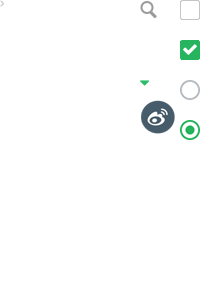
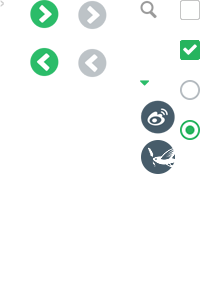
menu nav done

diff --git a/template/bui.html b/template/bui.html
@@ -103,8 +103,6 @@
 				<a href="#" class="btn btn-main act-dialog-def">default</a>
 				<a href="#" class="btn btn-main act-dialog">option</a>
 				<a href="#" class="act-dialog-focus btn btn-hot" focus-data="http://i1.chunboimg.com/group1/M00/00/7E/Cv4IbFTZnomAO0psAARScKU3pKI08..jpg;http://i0.chunboimg.com/group1/M00/00/7E/Cv4IdVTZnqCAPIldAAT-gRpQRVE26..jpg;http://i1.chunboimg.com/group1/M00/00/7E/Cv4IbFTZnoqALfJ_AAU24kFSXTA61..jpg;http://i1.chunboimg.com/group1/M00/00/7E/Cv4IdVTZnqGADG5LAAUs5NB0-YQ13..jpg;http://i0.chunboimg.com/group1/M00/00/7E/Cv4IbFTZnouAWJuDAAVlxJWw_1g51..jpg;http://i0.chunboimg.com/group1/M00/00/7E/Cv4IdVTZnqKAclKrAAV6SQlI-qc71..jpg;http://i1.chunboimg.com/group1/M00/00/7E/Cv4IbFTZnoyACTWWAAV7OyEdcRo80..jpg;http://i1.chunboimg.com/group1/M00/00/7E/Cv4IdVTZnqOAAGZkAAWAi1oYko073..jpg;http://i1.chunboimg.com/group1/M00/00/7E/Cv4IbFTZno2AE4Y0AAWBS0k2vGQ22..jpg;http://i1.chunboimg.com/group1/M00/00/7E/Cv4IdVTZnqSAInClAAWKCvyxPqQ35..jpg;http://i1.chunboimg.com/group1/M00/00/7E/Cv4IbFTZno2AI_hYAATdsHj4Rcg50..jpg">textReport1</a>
-
-				<a href="#" class="act-dialog-focus btn btn-hot" focus-data="http://i1.chunboimg.com/group1/M00/00/85/Cv4IdVTasw-AN5KWAAWqHBWm8gQ42..jpg;http://i1.chunboimg.com/group1/M00/00/85/Cv4IbFTasvmAWeJYAAXQtKuQBZo28..jpg;http://i1.chunboimg.com/group1/M00/00/85/Cv4IdVTasxCAB6inAAbX5r1RlbU80..jpg;http://i1.chunboimg.com/group1/M00/00/85/Cv4IbFTasvqAMZ-hAAaU8Pb4Tsg27..jpg;http://i0.chunboimg.com/group1/M00/00/85/Cv4IdVTasxGAYNnAAAYz_EvR2gA05..jpg">textReport2</a>
 				<a href="#" class="act-dialog-imgview btn btn-main" img-data="http://i0.chunboimg.com/group1/M00/00/7E/Cv4IdVTZoSqAEgn1AAHeh_8laio864.jpg;http://i1.chunboimg.com/group1/M00/00/7E/Cv4IbFTZoQuAGyGZAAJB64a1B6g418.jpg;http://i1.chunboimg.com/group1/M00/00/7E/Cv4IbFTZoSWAM2vIAAKrTZYrmHI269.jpg;http://i0.chunboimg.com/group1/M00/00/6D/Cv4IdVTQTDiAWljqAADg5YwDok8390.jpg">imgView</a>
 			</dd>
 			<dt class="demo">header</dt>
@@ -122,7 +120,7 @@
 					</div>
 					<div class="header-nav">
 						<ul class="main-nav">
-							<li class="main-item-all-nav dropDown open">浏览所有食品<i class="i-arr-down"></i>
+							<li class="main-item-all-nav dropDown ">浏览所有食品<i class="i-arr-down"></i><!-- open -->
 								<ul class="all-nav dropDown-menu">
 									<li><a href="#" class="all-nav-a"><i class="i-all-nav" style="background-image:url(http://static.chunboimg.com/images/category/32.png)"></i>水果蔬菜</a>
 										<dl style="background-image:url(http://i2.chunboimg.com/group1/M00/00/50/Cv4IbFTE846ABkrOAAB7wmKgO7w292_530_180.jpg)">
@@ -157,43 +155,45 @@
 				<div class="footer">
 					<div class="footer-int">
 						<h2><a href="/"><img src="http://static.chunboimg.com/images/footer_logo.jpg" alt="春播"></a><p class="footer-callcenter">400-888-8878 <small>周一至周日 8:00-22:00</small></p></h2>
-						
-						<dl>
-							<dt>关于春播</dt>
-							<dd><a href="/Welcome/index" target="_blank">关于春播</a></dd>
-							<dd><a href="/HelpCenter/index/content_id/56" target="_blank">春播招聘</a></dd>
-						</dl>
-						<dl>
-							<dt>购物指南</dt>
-							<dd><a href="/HelpCenter/index/content_id/59" target="_blank">注册账号</a></dd>
-							<dd><a href="/HelpCenter/index/content_id/34" target="_blank">购物流程</a></dd>
-							<dd><a href="/HelpCenter/index/content_id/69" target="_blank">春播积分</a></dd>
-						</dl>
-						<dl>
-							<dt>配送方式</dt>
-							<dd><a href="/HelpCenter/index/content_id/40" target="_blank">送达时间</a></dd>
-							<dd><a href="/HelpCenter/index/content_id/42" target="_blank">验货签收</a></dd>
-						</dl>
-						<dl>
-							<dt>支付方式</dt>
-							<dd><a href="/HelpCenter/index/content_id/43" target="_blank">线上支付</a></dd>
-							<dd><a href="/HelpCenter/index/content_id/63" target="_blank">春播卡</a></dd>
-							<dd><a href="/HelpCenter/index/content_id/44" target="_blank">退款方式时间</a></dd>
-							<dd><a href="/HelpCenter/index/content_id/65" target="_blank">关于发票</a></dd>
-						</dl>
-						<dl class="dl-l">
-							<dt>售后服务</dt>
-							<dd><a href="/HelpCenter/index/content_id/48" target="_blank">退换货政策</a></dd>
-							<dd><a href="/HelpCenter/index/content_id/49" target="_blank">联系客服</a></dd>
-						</dl>
-						<dl class="dl-l">
-							<dt>关注春播</dt>
-							<dd><a href="http://weibo.com/u/5441211252" target="_blank"><span class="icon weibo"></span>微博账号</a></dd>
-						</dl>
-						<dl class="dl-m">
-							<dt>扫扫关注春播微信</dt>
-							<dd><img src="http://static.chunboimg.com/images/erweima.jpg" alt=""></dd>
-						</dl>
+						<ul>
+							<li>
+								<h5>关于春播</h5>
+								<p><a href="/Welcome/index" target="_blank">关于春播</a></p>
+								<p><a href="/HelpCenter/index/content_id/56" target="_blank">春播招聘</a></p>
+							</li>
+							<li>
+								<h5>购物指南</h5>
+								<p><a href="/HelpCenter/index/content_id/59" target="_blank">注册账号</a></p>
+								<p><a href="/HelpCenter/index/content_id/34" target="_blank">购物流程</a></p>
+								<p><a href="/HelpCenter/index/content_id/69" target="_blank">春播积分</a></p>
+							</li>
+							<li>
+								<h5>配送方式</h5>
+								<p><a href="/HelpCenter/index/content_id/40" target="_blank">送达时间</a></p>
+								<p><a href="/HelpCenter/index/content_id/42" target="_blank">验货签收</a></p>
+							</li>
+							<li>
+								<h5>支付方式</h5>
+								<p><a href="/HelpCenter/index/content_id/43" target="_blank">线上支付</a></p>
+								<p><a href="/HelpCenter/index/content_id/63" target="_blank">春播卡</a></p>
+								<p><a href="/HelpCenter/index/content_id/44" target="_blank">退款方式时间</a></p>
+								<p><a href="/HelpCenter/index/content_id/65" target="_blank">关于发票</a></p>
+							</li>
+							<li class="li-l">
+								<h5>售后服务</h5>
+								<p><a href="/HelpCenter/index/content_id/48" target="_blank">退换货政策</a></p>
+								<p><a href="/HelpCenter/index/content_id/49" target="_blank">联系客服</a></p>
+							</li>
+							<li class="li-l">
+								<h5>关注春播</h5>
+								<p><a href="http://weibo.com/u/5441211252" target="_blank"><span class="icon weibo"></span>微博账号</a></p>
+								<p><a href="http://www.chunbo.com/app/download" target="_blank"><span class="icon app"></span>手机春播</a></p>
+							</li>
+							<li class="li-m">
+								<h5>扫扫关注春播微信</h5>
+								<p><img src="http://static.chunboimg.com/images/erweima.jpg" alt=""></p>
+							</li>
+						</ul>
 						<p class="copyright">
 							<i>&copy;</i>2015 北京春播科技有限公司版权所有，并保留所有权利。<br>
 							<a href="http://www.miitbeian.gov.cn/" target="_blank">京ICP证140641号</a>&nbsp; 京公网安备11010802016828号&nbsp; 食品流通许可证SP1102281410063295
@@ -242,16 +242,13 @@
         function activateSubmenu(row) {
         	var $row = $(row);
         	$row.find('dl').show();
-        	console.log($row);
         }
         function deactivateSubmenu(row) {
             var $row = $(row);
             $row.find('dl').hide();
-            console.log('deact');
         }
         function mouseleaveMenu(row){
         	var $row = $(row);
-        	console.log('leave');
             $row.find('dl').hide();
         }
 		

diff --git a/static/styles/bui.css b/static/styles/bui.css
@@ -87,11 +87,28 @@ body.dialogShow{overflow:hidden;padding-right:15px}
 .testReportList-page{text-align:center;position:absolute;width:600px;bottom:-8px;left:50%;margin-left:-300px;opacity:0}
 .testReportList-page i{display:inline-block;*display:inline;*zoom:1;width:8px;height:8px;overflow:hidden;border-radius:4px;-moz-border-radius:4px;-webkit-border-radius:4px;background:#ccc;margin:3px}
 .testReportList-page i.on{background:#2bbc69}
+/** dialog img view **/
+.img-view ul{width:500px;display:block;overflow:hidden;height:888px;}
+.img-view ul li{float:left;}
+.img-view ul img{width:500px;}
+#dialog-imgview{background:no-repeat;padding:0;border-radius:0;box-shadow:none;width:500px;}
+#dialog-imgview a.i-prev{position:absolute;top:50%;left:-30px;width:30px;height:30px;margin-top:-15px;opacity:0}
+#dialog-imgview a.i-next{position:absolute;top:50%;right:-30px;width:30px;height:30px;margin-top:-15px;opacity:0}
+#dialog-imgview .dialog-content{padding:0;}
+#dialog-imgview .img-view-list{width:500px;height:666px;overflow:hidden;position:relative;}
+#dialog-imgview .img-view-list ul{width:10000px;display:block;position:absolute;}
+#dialog-imgview .img-view-list li{float:left;width:500px;height:666px;vertical-align:middle;position:relative;}
+#dialog-imgview .img-view-list li img{vertical-align:middle;}
+#dialog-imgview .img-view-list li i {display:inline-block;*display:inline;*zoom:1;width:1px;overflow:hidden;height:100%;margin-left:-1px;vertical-align:middle;}
+#dialog-imgview .img-view-page{text-align: center;position: absolute;width: 600px;bottom:-10px;left: 50%;margin-left: -300px;opacity:0;}
+#dialog-imgview .img-view-page i{display:inline-block;*display:inline;*zoom:1;width:8px;height:8px;overflow:hidden;border-radius:4px;background:#ccc; margin:3px; }
+#dialog-imgview .img-view-page  i.on{background:#2bbc69;}
+
 .icon{display:inline-block;*display:inline;*zoom:1;width:16px;height:16px;background-image:url(../img/icon.png);background-repeat:no-repeat;vertical-align:middle;}
-.i-prev{background-position:-50px -50px}
-.i-next{background-position:-50px -2px}
-.i-prev-disabled{background-position:-98px -51px;cursor:default}
-.i-next-disabled{background-position:-98px -3px;cursor:default}
+.i-prev{background-position:-30px -48px}
+.i-next{background-position:-30px 0}
+.i-prev-disabled{background-position:-78px -48px;cursor:default}
+.i-next-disabled{background-position:-78px 0;cursor:default}
 
 
 
@@ -166,16 +183,17 @@ li.line-right{border-right:1px solid #ccc;}
 .footer .footer-int{width:840px;padding:35px 10px 10px 180px;margin:10px auto;}
 .footer h2{float:left;margin-left:-180px;width:180px;}
 .footer a{color:#fff;}
-.footer dl{width:98px;display:inline-block;*display:inline;*zoom:1;text-align:left;vertical-align:top;font-size:14px;line-height:25px;}
-.footer dl dt{margin-bottom:5px;}
+.footer li{width:98px;display:inline-block;*display:inline;*zoom:1;text-align:left;vertical-align:top;font-size:14px;line-height:25px;}
+.footer h5{margin-bottom:5px;color:#91afc6;}
 .footer p.footer-callcenter{color:#fff;font-size:18px;line-height:22px;}
 .footer p.footer-callcenter small{font-size:12px;float:left;color:#fff;}
 .footer .copyright{border-top:1px solid #3e607c;margin-left:-170px;text-align:center;line-height:25px;padding:10px 0;margin-top:20px;}
 .footer .copyright a{color:#91afc6;}
 .footer .copyright i{font-size: 22px;vertical-align:top;margin-right:3px;}
-.footer dl.dl-l{width:153px;}
-.footer dl.dl-m{width:115px;}
-.footer span.weibo{width:35px;height:35px;background-position:-140px -100px;margin-right:10px;}
+.footer li.li-l{width:153px;}
+.footer li.li-m{width:115px;}
+.footer span.weibo{width:35px;height:35px;background-position:-140px -100px;margin:0 10px 10px 0;}
+.footer span.app{width:35px;height:35px;background-position:-140px -140px;margin-right:10px;}
 
 .dropDown{position:relative;}
 .dropDown .dropDown-menu{border:1px solid #ccc;background:#fff;width:100%;position:absolute;box-shadow:0 1px 3px 1px rgba(0,0,0,.3);left:0;display:none;margin-top:1px;border-radius:2px;min-height:100px;z-index:1000;}

diff --git a/static/scripts/bui.js b/static/scripts/bui.js
@@ -126,9 +126,9 @@
 
         // 激活
         var activate = function(row) {
-            if (row == activeRow) {
-                return;
-            }
+            // if (row == activeRow) {
+            //     return;
+            // }
 
             if (activeRow) {
                 options.deactivate(activeRow);

diff --git a/app.js b/app.js
@@ -19,6 +19,6 @@ app.get( /^\/(.+?)\/(.*?).html$/ , function(req,res){
     } );
 } );
 
-var port = 9988;
+var port = 9989;
 app.listen(port);
 console.log('Server start at port ' + port);
